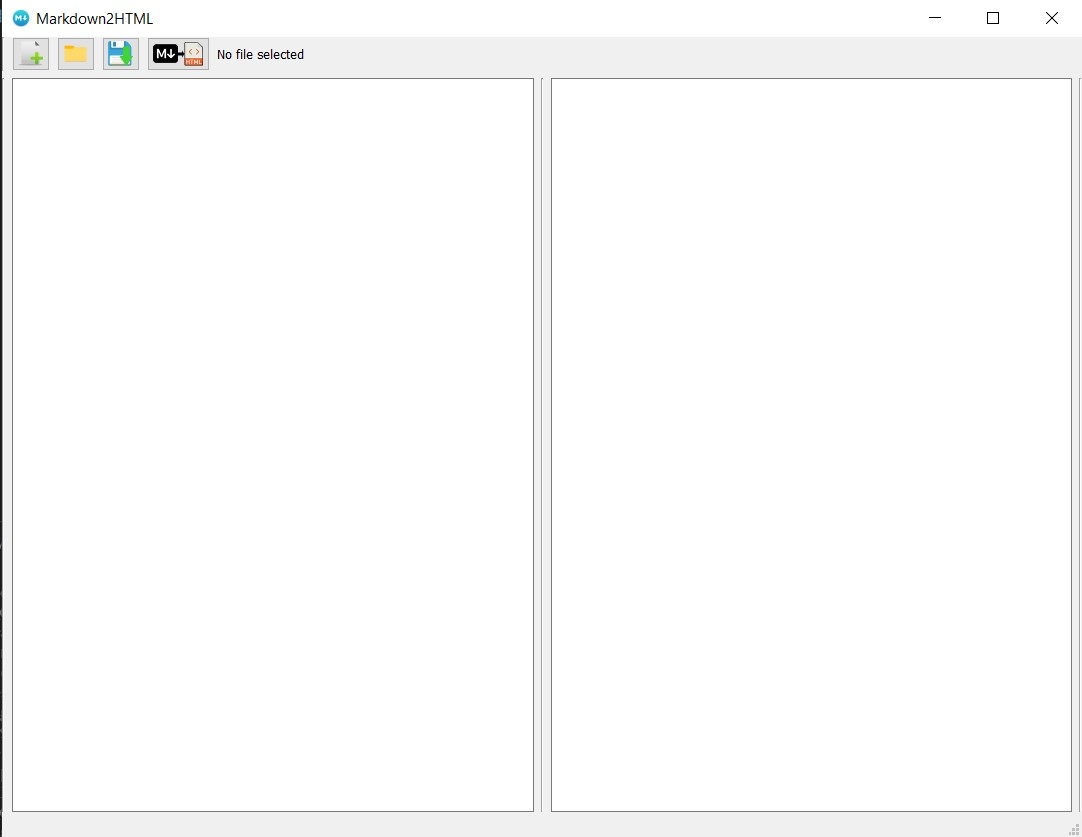
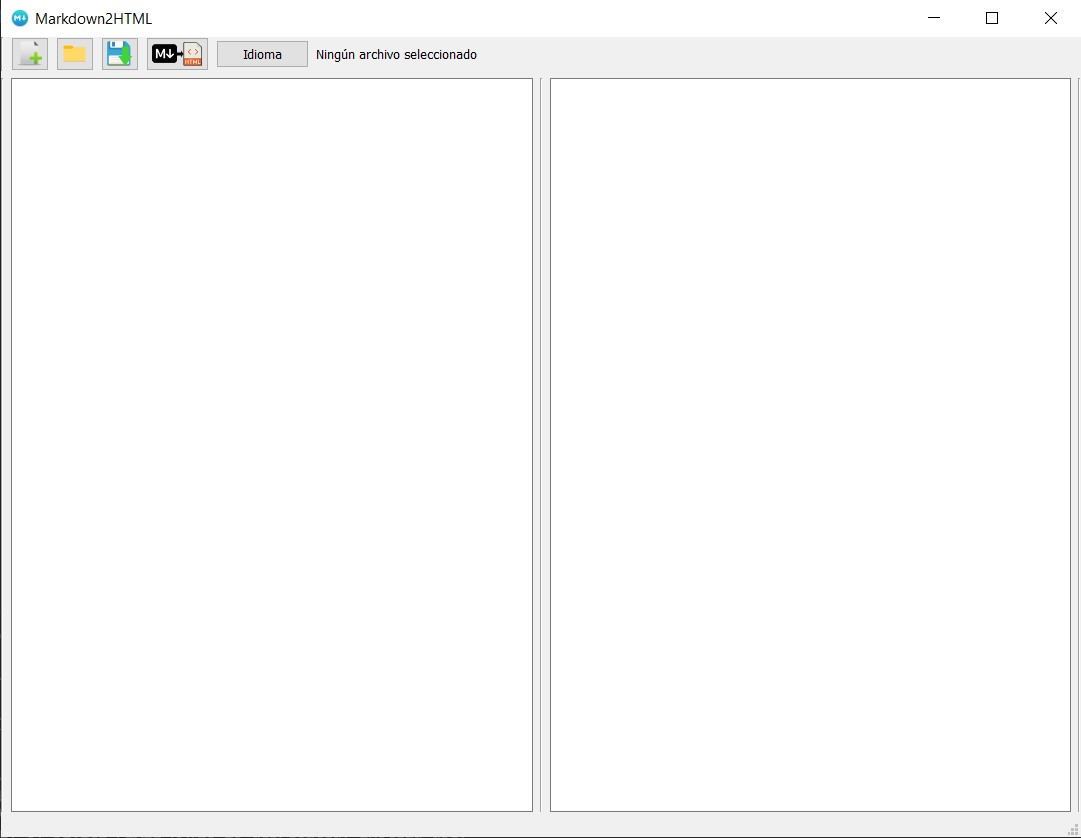
Internacionality added

Changed region(s): [[0.0, 0.0, 1.0, 1.0], [0.4884, 0.0932, 0.519, 0.963]]

diff --git a/html/markdown.html b/html/markdown.html
@@ -1,0 +1,29 @@
+<h1>markdown2HTML</h1>
+<p>Provides a markdown editor that convert the text to html to show the final aspect.</p>
+<h1>Requirements</h1>
+<ul>
+<li>Install PyQt5</li>
+<li><code>pip install markdown</code></li>
+</ul>
+<h1>How to use</h1>
+<p>Run /app/main.py</p>
+<h1>Features</h1>
+<ul>
+<li>[x] Create new text file.</li>
+<li>[x] Edit a text file.</li>
+<li>[x] Save a text file.</li>
+<li>[x] Open a text file.</li>
+<li>[x] Show HTML.</li>
+<li>[x] Save HTML.</li>
+</ul>
+<h1>Non Functional Features</h1>
+<ul>
+<li>[x] Header menu.</li>
+<li>[x] Documentation generated with code.</li>
+<li>[x] Translation to other languages.</li>
+</ul>
+<p><img alt="User Interface" src="docs/screenshots/UI.jpg" /></p>
+<p><img alt="User Interface" src="docs/screenshots/html_displayed.jpg" /></p>
+<p><img alt="User Interface" src="docs/screenshots/languages.jpg" /></p>
+<h1>Documentation</h1>
+<p>The documents are placed in /docs/_build/html</p>

diff --git a/app/locale/português.ts b/app/locale/português.ts
@@ -1,0 +1,22 @@
+<?xml version="1.0" encoding="utf-8"?>
+<!DOCTYPE TS>
+<TS version="2.1" language="pt_PT" sourcelanguage="es_ES">
+<context>
+    <name>Markdown2HTML</name>
+    <message>
+        <location filename="../mainInterface.ui" line="14"/>
+        <source>Markdown2HTML</source>
+        <translation>Markdown2HTML</translation>
+    </message>
+    <message>
+        <location filename="../mainInterface.ui" line="105"/>
+        <source>Idioma</source>
+        <translation>Língua</translation>
+    </message>
+    <message>
+        <location filename="../mainInterface.ui" line="118"/>
+        <source>Ningún archivo seleccionado</source>
+        <translation>nenhum arquivo selecionado</translation>
+    </message>
+</context>
+</TS>

diff --git a/app/locale/english.ts b/app/locale/english.ts
@@ -1,0 +1,22 @@
+<?xml version="1.0" encoding="utf-8"?>
+<!DOCTYPE TS>
+<TS version="2.1" language="en_GB" sourcelanguage="es_ES">
+<context>
+    <name>Markdown2HTML</name>
+    <message>
+        <location filename="../mainInterface.ui" line="14"/>
+        <source>Markdown2HTML</source>
+        <translation>Markdown2HTML</translation>
+    </message>
+    <message>
+        <location filename="../mainInterface.ui" line="105"/>
+        <source>Idioma</source>
+        <translation>Language</translation>
+    </message>
+    <message>
+        <location filename="../mainInterface.ui" line="118"/>
+        <source>Ningún archivo seleccionado</source>
+        <translation>No file selected</translation>
+    </message>
+</context>
+</TS>

diff --git a/app/model.py b/app/model.py
@@ -1,7 +1,8 @@
 
 from PyQt5.QtWidgets import QMainWindow
 from PyQt5 import uic
-from PyQt5 import QtWidgets, QtGui
+from PyQt5 import QtWidgets
+from PyQt5.QtCore import QTranslator, QCoreApplication
 import markdown
 
 
@@ -12,11 +13,14 @@ class Markdown2HTML(QMainWindow):
         
         self.currentFileName="new_file.txt"
 
+        self.translator=QTranslator()
+    
         ## Conexión de botones con sus funciones
         self.newFileButton.clicked.connect(self.newFile)
         self.openButton.clicked.connect(self.openTxtFile) 
         self.saveButton.clicked.connect(self.saveFunction)
         self.convertButton.clicked.connect(self.convertFunction)
+        self.languagePickerButton.clicked.connect(self.pickLanguage)
         
     def newFile(self):
         picker = txtCreator(self).get_widget()
@@ -36,8 +40,6 @@ class Markdown2HTML(QMainWindow):
         file = open(self.currentFileName, "w")
         file.write(self.textEditor.toPlainText())
         file.close()
-
-
 
     def textFileSelected(self, file):
         self.currentFile.setText(file)
@@ -66,7 +68,35 @@ class Markdown2HTML(QMainWindow):
         file = open("html\markdown.html","w")
         file.write(textInHtml)
         file.close()
-        
+
+    def pickLanguage(self): # Se abre un seleccionador de idioma y con lo que se devuelva traducimos.
+        picker = languajePicker(self).get_widget(self)
+        [idiomaSeleccionado, confirmacion] =picker
+        if confirmacion: # Cambiamos idioma
+            if idiomaSeleccionado=="English":
+                self.translator.load("app/locale/english.qm")
+                QCoreApplication.installTranslator(self.translator)
+            elif idiomaSeleccionado=="Português":
+                self.translator.load("app/locale/português.qm")
+                QCoreApplication.installTranslator(self.translator)
+            else:
+                QCoreApplication.removeTranslator(self.translator)
+
+        self.translateUi(self)
+
+        return picker
+
+    def translateUi(self, Markdown2HTML):
+        Markdown2HTML.setWindowTitle(QCoreApplication.translate("Markdown2HTML", u"Markdown2HTML", None))
+        self.newFileButton.setText("")
+        self.openButton.setText("")
+        self.saveButton.setText("")
+        self.convertButton.setText("")
+        self.languagePickerButton.setText(QCoreApplication.translate("Markdown2HTML", u"Language", None))
+        self.currentFile.setText(QCoreApplication.translate("Markdown2HTML", u"Ning\u00fan archivo seleccionado", None))
+    # retranslateUi
+
+    
 
 class txtPicker: #Ventana de dialogo para abrir txt
     def __init__(self, ui):
@@ -86,3 +116,18 @@ class txtCreator: #Ventana de dialogo para crear txt
         picker.setAcceptMode(QtWidgets.QFileDialog.AcceptSave)
         picker.setMimeTypeFilters(['text/markdown','text/plain'])
         return picker
+
+class languajePicker: #Ventana para escoger el idioma
+    def __init__(self, ui):
+        self.ui = ui
+
+    def get_widget(self,mainWindow):
+        picker = QtWidgets.QInputDialog(self.ui).getItem(None,"Language","Select a language", ["Español","English","Português"])
+        
+        #picker.addAction("Español")
+        #picker.addAction("English")
+        #picker.addAction("Português")
+
+        return picker
+
+    

diff --git a/.qt_for_python/uic/mainInterface.py b/.qt_for_python/uic/mainInterface.py
@@ -3,15 +3,21 @@
 ################################################################################
 ## Form generated from reading UI file 'mainInterface.ui'
 ##
-## Created by: Qt User Interface Compiler version 5.15.2
+## Created by: Qt User Interface Compiler version 6.2.3
 ##
 ## WARNING! All changes made in this file will be lost when recompiling UI file!
 ################################################################################
 
-from PySide2.QtCore import *
-from PySide2.QtGui import *
-from PySide2.QtWidgets import *
-
+from PySide6.QtCore import (QCoreApplication, QDate, QDateTime, QLocale,
+    QMetaObject, QObject, QPoint, QRect,
+    QSize, QTime, QUrl, Qt)
+from PySide6.QtGui import (QBrush, QColor, QConicalGradient, QCursor,
+    QFont, QFontDatabase, QGradient, QIcon,
+    QImage, QKeySequence, QLinearGradient, QPainter,
+    QPalette, QPixmap, QRadialGradient, QTransform)
+from PySide6.QtWidgets import (QApplication, QFrame, QHBoxLayout, QLabel,
+    QMainWindow, QPlainTextEdit, QPushButton, QSizePolicy,
+    QStatusBar, QTextEdit, QVBoxLayout, QWidget)
 
 class Ui_Markdown2HTML(object):
     def setupUi(self, Markdown2HTML):
@@ -70,6 +76,11 @@ class Ui_Markdown2HTML(object):
         self.convertButton.setIconSize(QSize(50, 25))
 
         self.horizontalLayout.addWidget(self.convertButton)
+
+        self.languagePickerButton = QPushButton(self.centralwidget)
+        self.languagePickerButton.setObjectName(u"languagePickerButton")
+
+        self.horizontalLayout.addWidget(self.languagePickerButton)
 
         self.currentFile = QLabel(self.centralwidget)
         self.currentFile.setObjectName(u"currentFile")
@@ -136,6 +147,7 @@ class Ui_Markdown2HTML(object):
         self.openButton.setText("")
         self.saveButton.setText("")
         self.convertButton.setText("")
-        self.currentFile.setText(QCoreApplication.translate("Markdown2HTML", u"No file selected", None))
+        self.languagePickerButton.setText(QCoreApplication.translate("Markdown2HTML", u"Idioma", None))
+        self.currentFile.setText(QCoreApplication.translate("Markdown2HTML", u"Ning\u00fan archivo seleccionado", None))
     # retranslateUi
 

diff --git a/app/main.py b/app/main.py
@@ -8,7 +8,6 @@ import model
 def main():
     app = QApplication(sys.argv)
     form = model.Markdown2HTML() #Crea la interfaz y el modelo de la aplicación
-    
     form.show()
     
     try:

diff --git a/README.md b/README.md
@@ -23,11 +23,13 @@ Run /app/main.py
 
 - [x] Header menu.
 - [x] Documentation generated with code.
-- [ ] Translation to other languages.
+- [x] Translation to other languages.
 
 ![User Interface](docs/screenshots/UI.jpg)
 
 ![User Interface](docs/screenshots/html_displayed.jpg)
+
+![User Interface](docs/screenshots/languages.jpg)
 
 # Documentation
 The documents are placed in /docs/_build/html
